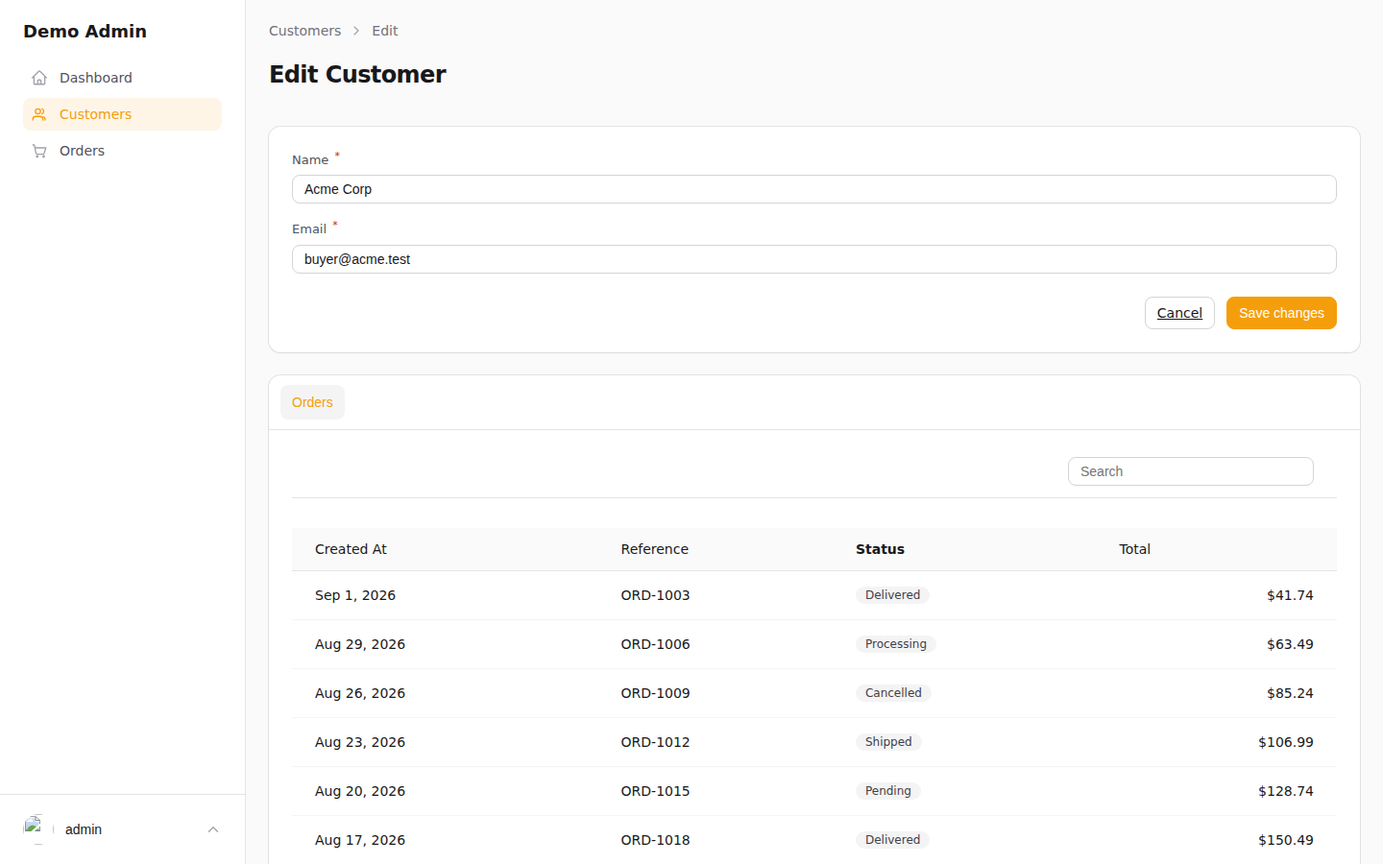
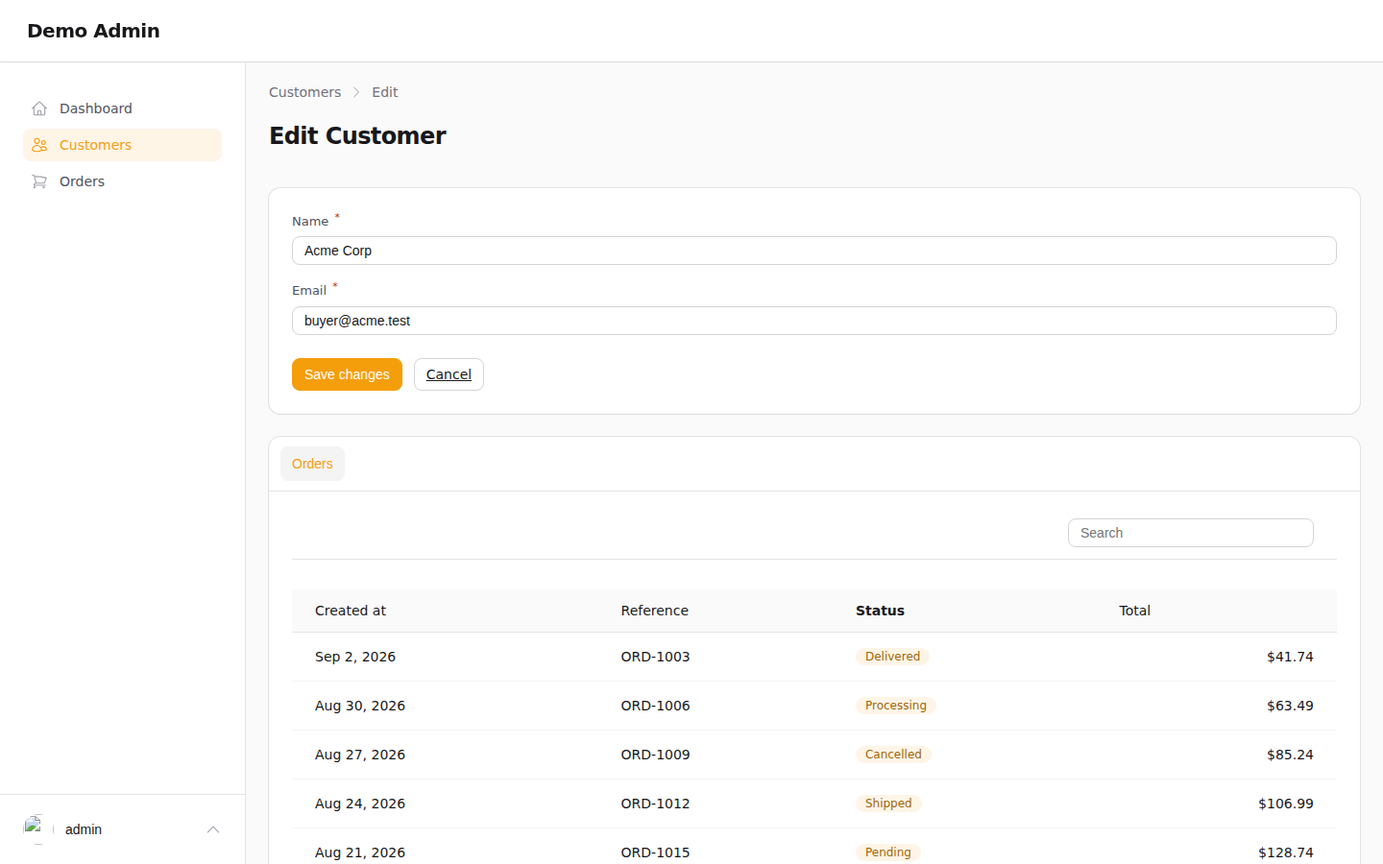
Make table rows clickable, and ship real Heroicons
Closes the last two items in #27's parity audit, and refreshes the README
comparison so its screenshots show the result.

Whole-row-clickable. Ported from ListRecords::table(), which is where the
behaviour actually comes from: walk ['view', 'edit'] and take the first
action that exists and is visible for the record. One with no URL becomes
recordAction (clicking mounts its modal); one that *has* a URL becomes
recordUrl (the row is a link), and upstream's blade prefers recordUrl when
both resolve. Fila's only URL-bearing row action is Edit on a resource with
relation managers, so that preference falls out on its own: Orders rows
(Edit is a modal) open the View modal, Customers rows link to their
dedicated /edit page. Markup matches the live reference DOM -- <tr> gains
fi-ta-row/fi-clickable, and each *data* cell wraps its content in a
full-width .fi-ta-col <a>/<button>/<div>, leaving the selection and
action cells unwrapped exactly as upstream leaves them. The cell padding
moves onto that wrapper (upstream keeps .fi-ta-cell at p-0 for the same
reason) so the click target covers the whole cell, not just its text.
RelationManager sets neither property upstream, so nested tables stay
inert -- asserted, not assumed.

Heroicons. IconRegistry drew most of its bodies by hand in a Lucide-ish
style at stroke-width 1.75; only "home" and "trending-up" were genuine
Heroicons. Every body is now the verbatim Heroicons 24/outline path
[…]

diff --git a/src/Fila.Panels/wwwroot/fila/fila.css b/src/Fila.Panels/wwwroot/fila/fila.css
@@ -715,8 +715,51 @@ body {
   white-space: nowrap;
 }
 
+/* fi-ta-col — the wrapper Filament puts inside every *data* cell (cell.css: `flex w-full`,
+   with .fi-ta-cell itself at `p-0`). It exists so a clickable row's <a>/<button> covers the
+   whole cell, padding included, instead of just the text. Fila keeps its padding on
+   .fi-ta-cell for the cells that have no wrapper — the selection checkbox and the row-action
+   cell, which upstream leaves unwrapped too — and hands it to .fi-ta-col for the rest.
+   display:block rather than upstream's flex: Fila's column partials emit inline content, so
+   the cell's own text-align (fi-ta-align-*) is what has to reach it, and a block child
+   inherits that where a flex container would need a matching justify-content rule per
+   alignment. */
+.fi-ta-cell:has(> .fi-ta-col) {
+  padding: 0;
+}
+
+.fi-ta-col {
+  display: block;
+  width: 100%;
+  padding: 1rem 0.75rem;
+  font: inherit;
+  color: inherit;
+  text-align: inherit;
+  background: none;
+  border: none;
+}
+
+a.fi-ta-col {
+  text-decoration: none;
+}
+
+button.fi-ta-col,
+a.fi-ta-col {
+  cursor: pointer;
+}
+
+/* row.css: `&.fi-clickable { @apply hover:bg-gray-50 dark:hover:bg-white/5 }` — the only
+   affordance upstream gives a clickable row (the cursor comes from the cell's own button). */
+.fi-ta-row.fi-clickable:hover {
+  background: var(--fi-hover-bg);
+}
+
 .fi-ta-header-cell:first-child,
 .fi-ta-cell:first-child {
+  padding-inline-start: 1rem;
+}
+
+.fi-ta-cell:first-child > .fi-ta-col {
   padding-inline-start: 1rem;
 }
 
@@ -725,7 +768,19 @@ body {
   padding-inline-end: 1rem;
 }
 
+.fi-ta-cell:last-child > .fi-ta-col {
+  padding-inline-end: 1rem;
+}
+
 @media (min-width: 640px) {
+  .fi-ta-cell:first-child > .fi-ta-col {
+    padding-inline-start: 1.5rem;
+  }
+
+  .fi-ta-cell:last-child > .fi-ta-col {
+    padding-inline-end: 1.5rem;
+  }
+
   .fi-ta-header-cell:first-child,
   .fi-ta-cell:first-child {
     padding-inline-start: 1.5rem; /* sm:first-of-type:ps-6 */

diff --git a/src/Fila.Support/IconRegistry.cs b/src/Fila.Support/IconRegistry.cs
@@ -2,79 +2,106 @@ namespace Fila.Support;
 
 /// <summary>Small built-in icon set for Resource.NavigationIcon, referenced by name (e.g.
 /// "shopping-cart"). Inlined as SVG rather than pulling an icon font/CDN — keeps the
-/// dependency list at zero per spec §5. Unknown names fall back to a generic document icon.</summary>
+/// dependency list at zero per spec §5. Unknown names fall back to a generic document icon.
+///
+/// Every body below is a verbatim Heroicons 24/outline path, the set Filament itself ships
+/// (blade-ui-kit/blade-heroicons, referenced through Filament\Support\Icons\Heroicon). Each
+/// name maps to whichever Heroicon the corresponding Filament element actually resolves to —
+/// the comments name it where the mapping isn't obvious from the name alone. Drawing these by
+/// hand instead is exactly the "looks plausible, is wrong in a dozen small ways" trap: the
+/// stroke weight, the corner radii and the optical sizing all differ, and it shows immediately
+/// in a side-by-side screenshot.</summary>
 public static class IconRegistry
 {
+    // Heroicons' own 24/outline wrapper attributes, verbatim — notably stroke-width 1.5, not
+    // the 1.75 this used to draw at. stroke-linecap/linejoin sit here rather than on each path
+    // (they're inherited), which is the one liberty taken with the upstream markup.
     private const string Wrapper =
-        """<svg xmlns="http://www.w3.org/2000/svg" viewBox="0 0 24 24" fill="none" stroke="currentColor" stroke-width="1.75" stroke-linecap="round" stroke-linejoin="round" class="fi-icon" aria-hidden="true">{0}</svg>""";
+        """<svg xmlns="http://www.w3.org/2000/svg" viewBox="0 0 24 24" fill="none" stroke="currentColor" stroke-width="1.5" stroke-linecap="round" stroke-linejoin="round" class="fi-icon" aria-hidden="true" data-slot="icon">{0}</svg>""";
 
+    // Heroicons 24/outline "document-text" — the fallback for an unregistered name.
     private const string DefaultBody =
-        """<rect x="5" y="3" width="14" height="18" rx="2"/><path d="M9 8h6M9 12h6M9 16h4"/>""";
+        """<path d="M19.5 14.25v-2.625a3.375 3.375 0 0 0-3.375-3.375h-1.5A1.125 1.125 0 0 1 13.5 7.125v-1.5a3.375 3.375 0 0 0-3.375-3.375H8.25m2.25 0H5.625c-.621 0-1.125.504-1.125 1.125v17.25c0 .621.504 1.125 1.125 1.125h12.75c.621 0 1.125-.504 1.125-1.125V11.25a9 9 0 0 0-9-9Z"/>""";
 
     private static readonly Dictionary<string, string> Bodies = new(StringComparer.OrdinalIgnoreCase)
     {
-        // Heroicons' own 24/outline "home" path, verbatim — Filament's Dashboard navigation
-        // icon is Heroicon::OutlinedHome (packages/panels/src/Pages/Dashboard.php).
-        // Heroicons 24/outline "arrow-trending-up" — what a Filament stat's descriptionIcon
-        // almost always is.
-        ["trending-up"] =
-            """<path d="M2.25 18 9 11.25l4.306 4.307a11.95 11.95 0 0 1 5.814-5.518l2.74-1.22"/><path d="M21.75 9.349V15.4m0-6.051H15.7"/>""",
+        // Dashboard nav — Heroicon::OutlinedHome (Pages\Dashboard.php).
         ["home"] =
-            """<path d="M2.25 12l8.954-8.955c.44-.439 1.152-.439 1.591 0L21.75 12M4.5 9.75v10.125c0 .621.504 1.125 1.125 1.125H9.75v-4.875c0-.621.504-1.125 1.125-1.125h2.25c.621 0 1.125.504 1.125 1.125V21h4.125c.621 0 1.125-.504 1.125-1.125V9.75M8.25 21h8.25"/>""",
+            """<path d="m2.25 12 8.954-8.955c.44-.439 1.152-.439 1.591 0L21.75 12M4.5 9.75v10.125c0 .621.504 1.125 1.125 1.125H9.75v-4.875c0-.621.504-1.125 1.125-1.125h2.25c.621 0 1.125.504 1.125 1.125V21h4.125c.621 0 1.125-.504 1.125-1.125V9.75M8.25 21h8.25"/>""",
+        // A resource NavigationIcon, as samples/Demo's OrderResource uses.
         ["shopping-cart"] =
-            """<circle cx="9" cy="20" r="1"/><circle cx="18" cy="20" r="1"/><path d="M3 4h2l2.2 11.2a2 2 0 0 0 2 1.6h7.6a2 2 0 0 0 2-1.6L21 8H6"/>""",
+            """<path d="M2.25 3h1.386c.51 0 .955.343 1.087.835l.383 1.437M7.5 14.25a3 3 0 0 0-3 3h15.75m-12.75-3h11.218c1.121-2.3 2.1-4.684 2.924-7.138a60.114 60.114 0 0 0-16.536-1.84M7.5 14.25 5.106 5.272M6 20.25a.75.75 0 1 1-1.5 0 .75.75 0 0 1 1.5 0Zm12.75 0a.75.75 0 1 1-1.5 0 .75.75 0 0 1 1.5 0Z"/>""",
+        // A resource NavigationIcon, as samples/Demo's CustomerResource uses.
         ["users"] =
-            """<path d="M17 20v-1a4 4 0 0 0-4-4H7a4 4 0 0 0-4 4v1"/><circle cx="10" cy="8" r="3.5"/><path d="M20 20v-1a3.5 3.5 0 0 0-2.5-3.4"/><path d="M15.5 4.6A3.5 3.5 0 0 1 18 8a3.5 3.5 0 0 1-2.5 3.4"/>""",
+            """<path d="M15 19.128a9.38 9.38 0 0 0 2.625.372 9.337 9.337 0 0 0 4.121-.952 4.125 4.125 0 0 0-7.533-2.493M15 19.128v-.003c0-1.113-.285-2.16-.786-3.07M15 19.128v.106A12.318 12.318 0 0 1 8.624 21c-2.331 0-4.512-.645-6.374-1.766l-.001-.109a6.375 6.375 0 0 1 11.964-3.07M12 6.375a3.375 3.375 0 1 1-6.75 0 3.375 3.375 0 0 1 6.75 0Zm8.25 2.25a2.625 2.625 0 1 1-5.25 0 2.625 2.625 0 0 1 5.25 0Z"/>""",
         ["user"] =
-            """<circle cx="12" cy="8" r="3.5"/><path d="M5 20v-1a5 5 0 0 1 5-5h4a5 5 0 0 1 5 5v1"/>""",
+            """<path d="M15.75 6a3.75 3.75 0 1 1-7.5 0 3.75 3.75 0 0 1 7.5 0ZM4.501 20.118a7.5 7.5 0 0 1 14.998 0A17.933 17.933 0 0 1 12 21.75c-2.676 0-5.216-.584-7.499-1.632Z"/>""",
         ["tag"] =
-            """<path d="M11 3H4v7l10 10 7-7L11 3z"/><circle cx="7.5" cy="7.5" r="1.25"/>""",
+            """<path d="M9.568 3H5.25A2.25 2.25 0 0 0 3 5.25v4.318c0 .597.237 1.17.659 1.591l9.581 9.581c.699.699 1.78.872 2.607.33a18.095 18.095 0 0 0 5.223-5.223c.542-.827.369-1.908-.33-2.607L11.16 3.66A2.25 2.25 0 0 0 9.568 3Z"/> <path d="M6 6h.008v.008H6V6Z"/>""",
         ["clipboard"] =
-            """<rect x="6" y="4" width="12" height="17" rx="2"/><path d="M9 4V3a1 1 0 0 1 1-1h4a1 1 0 0 1 1 1v1"/><path d="M9 11h6M9 15h6"/>""",
+            """<path d="M15.666 3.888A2.25 2.25 0 0 0 13.5 2.25h-3c-1.03 0-1.9.693-2.166 1.638m7.332 0c.055.194.084.4.084.612v0a.75.75 0 0 1-.75.75H9a.75.75 0 0 1-.75-.75v0c0-.212.03-.418.084-.612m7.332 0c.646.049 1.288.11 1.927.184 1.1.128 1.907 1.077 1.907 2.185V19.5a2.25 2.25 0 0 1-2.25 2.25H6.75A2.25 2.25 0 0 1 4.5 19.5V6.257c0-1.108.806-2.057 1.907-2.185a48.208 48.208 0 0 1 1.927-.184"/>""",
         ["cog"] =
-            """<circle cx="12" cy="12" r="3"/><path d="M12 2v3M12 19v3M4.2 4.2l2.1 2.1M17.7 17.7l2.1 2.1M2 12h3M19 12h3M4.2 19.8l2.1-2.1M17.7 6.3l2.1-2.1"/>""",
+            """<path d="M9.594 3.94c.09-.542.56-.94 1.11-.94h2.593c.55 0 1.02.398 1.11.94l.213 1.281c.063.374.313.686.645.87.074.04.147.083.22.127.325.196.72.257 1.075.124l1.217-.456a1.125 1.125 0 0 1 1.37.49l1.296 2.247a1.125 1.125 0 0 1-.26 1.431l-1.003.827c-.293.241-.438.613-.43.992a7.723 7.723 0 0 1 0 .255c-.008.378.137.75.43.991l1.004.827c.424.35.534.955.26 1.43l-1.298 2.247a1.125 1.125 0 0 1-1.369.491l-1.217-.456c-.355-.133-.75-.072-1.076.124a6.47 6.47 0 0 1-.22.128c-.331.183-.581.495-.644.869l-.213 1.281c-.09.543-.56.94-1.11.94h-2.594c-.55 0-1.019-.398-1.11-.94l-.213-1.281c-.062-.374-.312-.686-.644-.87a6.52 6.52 0 0 1-.22-.127c-.325-.196-.72-.257-1.076-.124l-1.217.456a1.125 1.125 0 0 1-1.369-.49l-1.297-2.247a1.125 1.125 0 0 1 .26-1.431l1.004-.827c.292-.24.437-.613.43-.991a6.932 6.932 0 0 1 0-.255c.007-.38-.138-.751-.43-.992l-1.004-.827a1.125 1.125 0 0 1-.26-1.43l1.297-2.247a1.125 1.125 0 0 1 1.37-.491l1.216.456c.356.133.751.072 1.076-.124.072-.044.146-.086.22-.128.332-.183.582-.495.644-.869l.214-1.28Z"/> <path d="M15 12a3 3 0 1 1-6 0 3 3 0 0 1 6 0Z"/>""",
+        // A stat's descriptionIcon.
+        ["trending-up"] =
+            """<path d="M2.25 18 9 11.25l4.306 4.306a11.95 11.95 0 0 1 5.814-5.518l2.74-1.22m0 0-5.94-2.281m5.94 2.28-2.28 5.941"/>""",
+        // Theme switcher light — components/theme-switcher/index.blade.php.
         ["sun"] =
-            """<circle cx="12" cy="12" r="4"/><path d="M12 2v2M12 20v2M4.2 4.2l1.4 1.4M18.4 18.4l1.4 1.4M2 12h2M20 12h2M4.2 19.8l1.4-1.4M18.4 5.6l1.4-1.4"/>""",
+            """<path d="M12 3v2.25m6.364.386-1.591 1.591M21 12h-2.25m-.386 6.364-1.591-1.591M12 18.75V21m-4.773-4.227-1.591 1.591M5.25 12H3m4.227-4.773L5.636 5.636M15.75 12a3.75 3.75 0 1 1-7.5 0 3.75 3.75 0 0 1 7.5 0Z"/>""",
+        // Theme switcher dark.
         ["moon"] =
-            """<path d="M20 14.5A8.5 8.5 0 0 1 9.5 4a8.5 8.5 0 1 0 10.5 10.5z"/>""",
+            """<path d="M21.752 15.002A9.72 9.72 0 0 1 18 15.75c-5.385 0-9.75-4.365-9.75-9.75 0-1.33.266-2.597.748-3.752A9.753 9.753 0 0 0 3 11.25C3 16.635 7.365 21 12.75 21a9.753 9.753 0 0 0 9.002-5.998Z"/>""",
+        // Theme switcher system (Heroicon::ComputerDesktop).
         ["system"] =
-            """<rect x="3" y="4" width="18" height="12" rx="1.5"/><path d="M8 20h8M12 16v4"/>""",
+            """<path d="M9 17.25v1.007a3 3 0 0 1-.879 2.122L7.5 21h9l-.621-.621A3 3 0 0 1 15 18.257V17.25m6-12V15a2.25 2.25 0 0 1-2.25 2.25H5.25A2.25 2.25 0 0 1 3 15V5.25m18 0A2.25 2.25 0 0 0 18.75 3H5.25A2.25 2.25 0 0 0 3 5.25m18 0V12a2.25 2.25 0 0 1-2.25 2.25H5.25A2.25 2.25 0 0 1 3 12V5.25"/>""",
+        // Modal close (Heroicon::XMark).
         ["x"] =
-            """<path d="M18 6 6 18M6 6l12 12"/>""",
+            """<path d="M6 18 18 6M6 6l12 12"/>""",
+        // EditAction (Heroicon::PencilSquare).
         ["pencil"] =
-            """<path d="M16.5 3.5a2.1 2.1 0 0 1 3 3L7 19l-4 1 1-4z"/>""",
+            """<path d="m16.862 4.487 1.687-1.688a1.875 1.875 0 1 1 2.652 2.652L10.582 16.07a4.5 4.5 0 0 1-1.897 1.13L6 18l.8-2.685a4.5 4.5 0 0 1 1.13-1.897l8.932-8.931Zm0 0L19.5 7.125M18 14v4.75A2.25 2.25 0 0 1 15.75 21H5.25A2.25 2.25 0 0 1 3 18.75V8.25A2.25 2.25 0 0 1 5.25 6H10"/>""",
+        // DeleteAction/ForceDeleteAction (Heroicon::Trash).
         ["trash"] =
-            """<path d="M4 7h16M9 7V5a1 1 0 0 1 1-1h4a1 1 0 0 1 1 1v2M6 7l1 13a1 1 0 0 0 1 1h8a1 1 0 0 0 1-1l1-13"/><path d="M10 11v6M14 11v6"/>""",
+            """<path d="m14.74 9-.346 9m-4.788 0L9.26 9m9.968-3.21c.342.052.682.107 1.022.166m-1.022-.165L18.16 19.673a2.25 2.25 0 0 1-2.244 2.077H8.084a2.25 2.25 0 0 1-2.244-2.077L4.772 5.79m14.456 0a48.108 48.108 0 0 0-3.478-.397m-12 .562c.34-.059.68-.114 1.022-.165m0 0a48.11 48.11 0 0 1 3.478-.397m7.5 0v-.916c0-1.18-.91-2.164-2.09-2.201a51.964 51.964 0 0 0-3.32 0c-1.18.037-2.09 1.022-2.09 2.201v.916m7.5 0a48.667 48.667 0 0 0-7.5 0"/>""",
+        // CreateAction (Heroicon::Plus).
         ["plus"] =
-            """<path d="M12 5v14M5 12h14"/>""",
+            """<path d="M12 4.5v15m7.5-7.5h-15"/>""",
         ["chevron-up"] =
-            """<path d="m6 15 6-6 6 6"/>""",
+            """<path d="m4.5 15.75 7.5-7.5 7.5 7.5"/>""",
         ["chevron-down"] =
-            """<path d="m6 9 6 6 6-6"/>""",
+            """<path d="m19.5 8.25-7.5 7.5-7.5-7.5"/>""",
         ["chevron-right"] =
-            """<path d="m9 6 6 6-6 6"/>""",
+            """<path d="m8.25 4.5 7.5 7.5-7.5 7.5"/>""",
         ["chevron-left"] =
-            """<path d="m15 6-6 6 6 6"/>""",
+            """<path d="M15.75 19.5 8.25 12l7.5-7.5"/>""",
+        // User menu sign-out (Heroicon::ArrowLeftEndOnRectangle).
         ["logout"] =
-            """<path d="M15 3h4a2 2 0 0 1 2 2v14a2 2 0 0 1-2 2h-4"/><path d="M10 17l5-5-5-5"/><path d="M15 12H3"/>""",
+            """<path d="M15.75 9V5.25A2.25 2.25 0 0 0 13.5 3h-6a2.25 2.25 0 0 0-2.25 2.25v13.5A2.25 2.25 0 0 0 7.5 21h6a2.25 2.25 0 0 0 2.25-2.25V15M12 9l-3 3m0 0 3 3m-3-3h12.75"/>""",
         ["inbox"] =
-            """<path d="M4 12h4l1.5 3h5L16 12h4"/><path d="M4 12 5.5 5A2 2 0 0 1 7.5 3.5h9a2 2 0 0 1 2 1.5L20 12v6a1.5 1.5 0 0 1-1.5 1.5h-13A1.5 1.5 0 0 1 4 18v-6z"/>""",
+            """<path d="M2.25 13.5h3.86a2.25 2.25 0 0 1 2.012 1.244l.256.512a2.25 2.25 0 0 0 2.013 1.244h3.218a2.25 2.25 0 0 0 2.013-1.244l.256-.512a2.25 2.25 0 0 1 2.013-1.244h3.859m-19.5.338V18a2.25 2.25 0 0 0 2.25 2.25h15A2.25 2.25 0 0 0 21.75 18v-4.162c0-.224-.034-.447-.1-.661L19.24 5.338a2.25 2.25 0 0 0-2.15-1.588H6.911a2.25 2.25 0 0 0-2.15 1.588L2.35 13.177a2.25 2.25 0 0 0-.1.661Z"/>""",
+        // samples/Demo's Mark shipped, matching the PHP demo's Heroicon::OutlinedCheckCircle.
         ["check-circle"] =
-            """<circle cx="12" cy="12" r="9"/><path d="m8.5 12.5 2.5 2.5 4.5-5"/>""",
+            """<path d="M9 12.75 11.25 15 15 9.75M21 12a9 9 0 1 1-18 0 9 9 0 0 1 18 0Z"/>""",
         ["x-circle"] =
-            """<circle cx="12" cy="12" r="9"/><path d="m9.5 9.5 5 5m0-5-5 5"/>""",
+            """<path d="m9.75 9.75 4.5 4.5m0-4.5-4.5 4.5M21 12a9 9 0 1 1-18 0 9 9 0 0 1 18 0Z"/>""",
+        // ReplicateAction (Heroicon::Square2Stack).
         ["copy"] =
-            """<rect x="9" y="9" width="12" height="12" rx="2"/><path d="M5 15V5a2 2 0 0 1 2-2h10"/>""",
+            """<path d="M16.5 8.25V6a2.25 2.25 0 0 0-2.25-2.25H6A2.25 2.25 0 0 0 3.75 6v8.25A2.25 2.25 0 0 0 6 16.5h2.25m8.25-8.25H18a2.25 2.25 0 0 1 2.25 2.25V18A2.25 2.25 0 0 1 18 20.25h-7.5A2.25 2.25 0 0 1 8.25 18v-1.5m8.25-8.25h-6a2.25 2.25 0 0 0-2.25 2.25v6"/>""",
+        // ViewAction (Heroicon::Eye).
         ["eye"] =
-            """<path d="M2.5 12S6 5 12 5s9.5 7 9.5 7-3.5 7-9.5 7-9.5-7-9.5-7z"/><circle cx="12" cy="12" r="3"/>""",
+            """<path d="M2.036 12.322a1.012 1.012 0 0 1 0-.639C3.423 7.51 7.36 4.5 12 4.5c4.638 0 8.573 3.007 9.963 7.178.07.207.07.431 0 .639C20.577 16.49 16.64 19.5 12 19.5c-4.638 0-8.573-3.007-9.963-7.178Z"/> <path d="M15 12a3 3 0 1 1-6 0 3 3 0 0 1 6 0Z"/>""",
+        // Login's password reveal toggle (Heroicon::EyeSlash).
         ["eye-off"] =
-            """<path d="M3 3l18 18"/><path d="M10.6 5.1A10.6 10.6 0 0 1 12 5c6 0 9.5 7 9.5 7a15.6 15.6 0 0 1-3.4 4.3M6.3 6.3C4 7.9 2.5 10 2.5 10s3.5 7 9.5 7a9.7 9.7 0 0 0 3.6-.7"/><path d="M9.9 9.9a3 3 0 0 0 4.2 4.2"/>""",
+            """<path d="M3.98 8.223A10.477 10.477 0 0 0 1.934 12C3.226 16.338 7.244 19.5 12 19.5c.993 0 1.953-.138 2.863-.395M6.228 6.228A10.451 10.451 0 0 1 12 4.5c4.756 0 8.773 3.162 10.065 7.498a10.522 10.522 0 0 1-4.293 5.774M6.228 6.228 3 3m3.228 3.228 3.65 3.65m7.894 7.894L21 21m-3.228-3.228-3.65-3.65m0 0a3 3 0 1 0-4.243-4.243m4.242 4.242L9.88 9.88"/>""",
+        // ActionGroup trigger (Heroicon::EllipsisVertical).
         ["dots-vertical"] =
-            """<circle cx="12" cy="5" r="1"/><circle cx="12" cy="12" r="1"/><circle cx="12" cy="19" r="1"/>""",
+            """<path d="M12 6.75a.75.75 0 1 1 0-1.5.75.75 0 0 1 0 1.5ZM12 12.75a.75.75 0 1 1 0-1.5.75.75 0 0 1 0 1.5ZM12 18.75a.75.75 0 1 1 0-1.5.75.75 0 0 1 0 1.5Z"/>""",
+        // RestoreAction (Heroicon::ArrowUturnLeft).
         ["restore"] =
-            """<path d="M3 12a9 9 0 1 0 3-6.7"/><path d="M3 4v5h5"/>""",
+            """<path d="M9 15 3 9m0 0 6-6M3 9h12a6 6 0 0 1 0 12h-3"/>""",
+        // The table's filter trigger (Heroicon::Funnel).
         ["filter"] =
-            """<path d="M4 5h16l-6 7v6l-4 2v-8z"/>""",
+            """<path d="M12 3c2.755 0 5.455.232 8.083.678.533.09.917.556.917 1.096v1.044a2.25 2.25 0 0 1-.659 1.591l-5.432 5.432a2.25 2.25 0 0 0-.659 1.591v2.927a2.25 2.25 0 0 1-1.244 2.013L9.75 21v-6.568a2.25 2.25 0 0 0-.659-1.591L3.659 7.409A2.25 2.25 0 0 1 3 5.818V4.774c0-.54.384-1.006.917-1.096A48.32 48.32 0 0 1 12 3Z"/>""",
     };
 
     public static string Render(string? name)

diff --git a/tests/Fila.Tests/ClickableRowTests.cs b/tests/Fila.Tests/ClickableRowTests.cs
@@ -1,0 +1,78 @@
+using AngleSharp.Html.Dom;
+using AngleSharp.Html.Parser;
+using Xunit;
+
+namespace Fila.Tests;
+
+/// <summary>Covers the record-click resolution ported from Filament's ListRecords::table():
+/// walk ['view', 'edit'], take the first action that exists and is visible for the row, and
+/// make the row a link when that action carries a URL or a modal trigger when it doesn't.
+///
+/// The two Demo resources exercise both branches on purpose. OrderResource has no relation
+/// manager, so its Edit stays a modal and "view" wins outright. CustomerResource *does* have
+/// one, which points its Edit at the dedicated /edit page — a URL — and upstream prefers a
+/// resolved recordUrl over a recordAction, so its rows link there instead of opening the View
+/// modal they'd otherwise get.</summary>
+public sealed class ClickableRowTests(DemoAppFactory factory) : IClassFixture<DemoAppFactory>
+{
+    [Fact]
+    public async Task OrdersRows_AreButtonsThatMountTheViewAction()
+    {
+        using var client = factory.CreateClient();
+        await TestAuth.LoginAsync(client);
+
+        var document = await new HtmlParser().ParseDocumentAsync(await client.GetStringAsync("/admin/orders"));
+
+        var row = document.QuerySelector("table.fi-ta-table tbody tr.fi-ta-row");
+        Assert.NotNull(row);
+        Assert.Contains("fi-clickable", row!.ClassName);
+
+        // Every data cell wraps its content in the clickable .fi-ta-col; the selection
+        // checkbox and the row-action cell are left unwrapped, exactly as upstream leaves them.
+        var wrappers = row.QuerySelectorAll("td > .fi-ta-col");
+        Assert.Equal(5, wrappers.Length); // OrderResource declares 5 columns.
+        Assert.All(wrappers, w => Assert.Equal("BUTTON", w.TagName));
+
+        // Seeded by samples/Demo/Data/DemoSeeder.cs: the newest order is id 1.
+        var button = wrappers[0];
+        Assert.Equal("/admin/orders/1/actions/view", button.GetAttribute("hx-get"));
+        Assert.Equal("#fila-modal-body", button.GetAttribute("hx-target"));
+
+        Assert.Null(row.QuerySelector("td.fi-ta-checkbox-cell > .fi-ta-col"));
+        Assert.Null(row.QuerySelector("td:has(.fi-ta-actions) > .fi-ta-col"));
+    }
+
+    [Fact]
+    public async Task CustomersRows_AreLinksToTheEditPage_BecauseThatActionCarriesAUrl()
+    {
+        using var client = factory.CreateClient();
+        await TestAuth.LoginAsync(client);
+
+        var document = await new HtmlParser().ParseDocumentAsync(await client.GetStringAsync("/admin/customers"));
+
+        var row = document.QuerySelector("table.fi-ta-table tbody tr.fi-ta-row");
+        Assert.NotNull(row);
+        Assert.Contains("fi-clickable", row!.ClassName);
+
+        var wrappers = row.QuerySelectorAll("td > .fi-ta-col").OfType<IHtmlAnchorElement>().ToList();
+        Assert.Equal(2, wrappers.Count); // CustomerResource declares 2 columns.
+        Assert.All(wrappers, a => Assert.Equal("/admin/customers/1/edit", a.GetAttribute("href")));
+    }
+
+    [Fact]
+    public async Task RelationManagerRows_StayUnclickable()
+    {
+        using var client = factory.CreateClient();
+        await TestAuth.LoginAsync(client);
+
+        // RelationManager doesn't set recordAction/recordUrl at all upstream — only
+        // ListRecords::table() does — so a nested table's rows are inert on both sides.
+        var html = await client.GetStringAsync("/admin/customers/1/edit");
+        var document = await new HtmlParser().ParseDocumentAsync(html);
+
+        var nested = document.QuerySelector("#fila-relation-table-orders");
+        Assert.NotNull(nested);
+        Assert.Empty(nested!.QuerySelectorAll(".fi-ta-col"));
+        Assert.Empty(nested.QuerySelectorAll("tr.fi-clickable"));
+    }
+}

diff --git a/tests/Fila.Tests/IconRegistryTests.cs b/tests/Fila.Tests/IconRegistryTests.cs
@@ -1,0 +1,50 @@
+using Fila.Support;
+using Xunit;
+
+namespace Fila.Tests;
+
+/// <summary>Pins the icon set to Heroicons 24/outline — the set Filament itself ships via
+/// blade-ui-kit/blade-heroicons. These bodies used to be hand-drawn Lucide-style
+/// approximations at stroke-width 1.75, which is close enough to compile and render but
+/// visibly wrong beside a real Filament screenshot.</summary>
+public sealed class IconRegistryTests
+{
+    [Fact]
+    public void Wrapper_UsesHeroiconsOwnAttributes()
+    {
+        var svg = IconRegistry.Render("home");
+
+        // Confirmed against a live rendered Filament sidebar icon, which carries exactly these.
+        Assert.Contains(@"viewBox=""0 0 24 24""", svg);
+        Assert.Contains(@"fill=""none""", svg);
+        Assert.Contains(@"stroke=""currentColor""", svg);
+        Assert.Contains(@"stroke-width=""1.5""", svg);
+        Assert.Contains(@"data-slot=""icon""", svg);
+        Assert.Contains(@"class=""fi-icon""", svg);
+        Assert.DoesNotContain(@"stroke-width=""1.75""", svg);
+    }
+
+    [Theory]
+    // The exact opening of each Heroicons 24/outline path, so a body swapped back to a
+    // hand-drawn approximation fails here rather than silently shipping.
+    [InlineData("home", "m2.25 12 8.954-8.955c")]
+    [InlineData("shopping-cart", "M2.25 3h1.386c")]
+    [InlineData("users", "M15 19.128a9.38 9.38 0 0 0 2.625.372")]
+    [InlineData("pencil", "m16.862 4.487 1.687-1.688a1.875 1.875 0 1 1 2.652 2.652")]
+    [InlineData("trash", "m14.74 9-.346 9m-4.788 0L9.26 9")]
+    [InlineData("eye", "M2.036 12.322a1.012 1.012 0 0 1 0-.639")]
+    [InlineData("filter", "M12 3c2.755 0 5.455.232 8.083.678")]
+    [InlineData("plus", "M12 4.5v15m7.5-7.5h-15")]
+    public void Body_IsTheVerbatimHeroicon(string name, string pathPrefix)
+    {
+        Assert.Contains($@"d=""{pathPrefix}", IconRegistry.Render(name));
+    }
+
+    [Fact]
+    public void UnknownName_FallsBackToTheDocumentTextHeroicon()
+    {
+        var svg = IconRegistry.Render("no-such-icon");
+
+        Assert.Contains("M19.5 14.25v-2.625a3.375 3.375 0 0 0-3.375-3.375", svg);
+    }
+}

diff --git a/README.md b/README.md
@@ -26,11 +26,24 @@ incidental.
 | Orders — create | ![Filament create order modal](docs/screenshots/reference/orders-create.png) | ![Fila create order modal](docs/screenshots/demo/orders-create.png) |
 | Orders — view | ![Filament view order modal](docs/screenshots/reference/orders-view.png) | ![Fila view order modal](docs/screenshots/demo/orders-view.png) |
 
-A few differences are visible on sight and tracked in
-[issue #27](https://github.com/shoboske/dotnet-filament/issues/27): no top bar or numbered
-pagination yet, form fields render single-column instead of Filament's responsive grid, the
-`<select>`/numeric fields don't start blank, and status/row-action colors don't fully match. The
-dashboard chart and stat sparklines do match — both render through a locally-vendored Chart.js,
+The gaps that used to be visible here — no top bar, no numbered pagination, single-column forms,
+`<select>`/numeric fields that didn't start blank, gray status badges, hand-drawn icons, inert
+rows — were worked through in #29–#42 and are checked off in
+[issue #27](https://github.com/shoboske/dotnet-filament/issues/27), which tracks this audit
+screen by screen.
+
+What's left in these shots is deliberate divergence rather than drift, and #27 records why:
+
+- **Badge text.** Fila humanizes the enum (`Processing`) where the reference prints its raw
+  backing value (`processing`).
+- **Customers.** Demo's `CustomerResource` declares an Infolist, so it gains a View action the
+  reference doesn't have; and it registers a relation manager, so its Edit opens a dedicated
+  `/customers/{id}/edit` page (which hosts that manager) instead of the reference's modal. That
+  second one also changes what clicking a row does: Filament prefers a record *URL* over a record
+  *action*, so Demo's customer rows link to the edit page while its order rows — no relation
+  manager, no URL — open the View modal, exactly as the same rule produces in reference.
+
+The dashboard chart and stat sparklines match: both render through a locally-vendored Chart.js,
 not a hand-rolled substitute.
 
 ### Regenerating these screenshots
